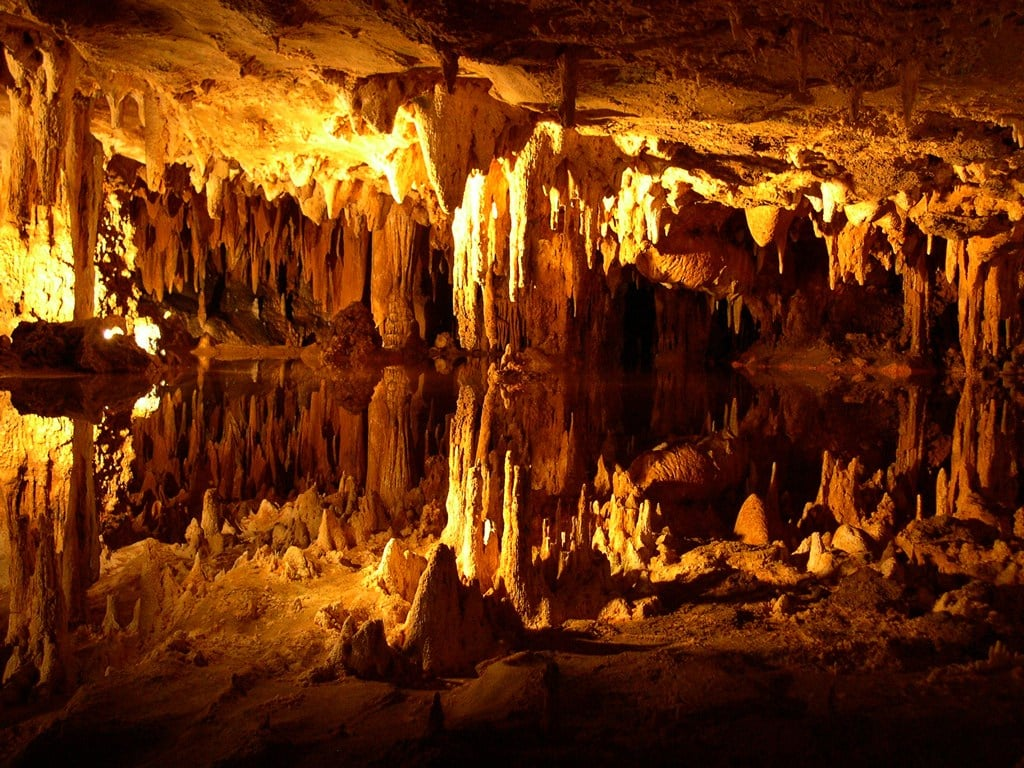
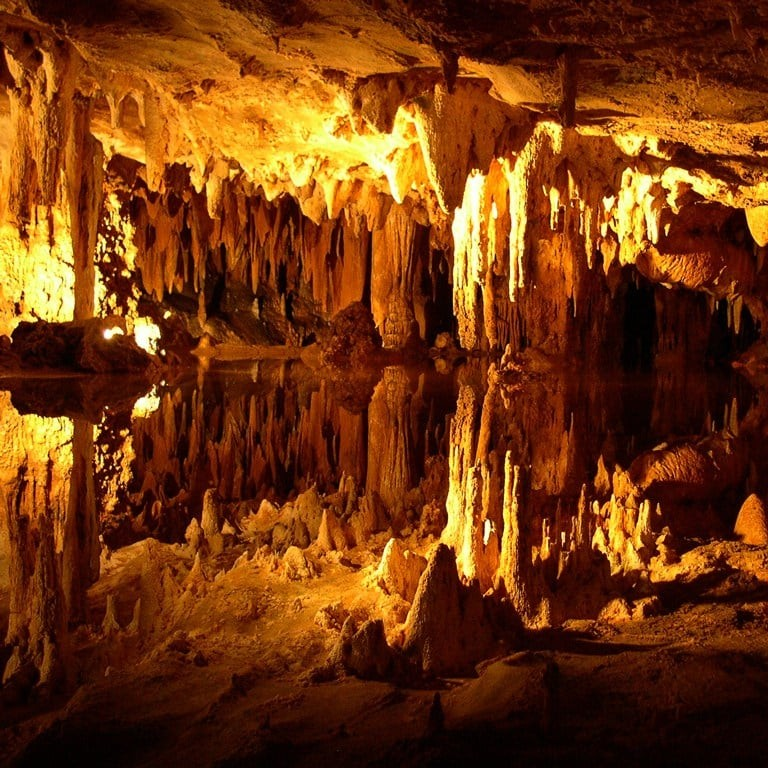
Embedded Google maps
Updated img sizing
added responsiveness for mobile devices

diff --git a/index.html b/index.html
@@ -58,8 +58,12 @@
 
         <div class="grid places-grid-3-columns">
           <div class="card">
-            <div class="card-header">
+            <div class="card-header grid grid-2-columns">
               <img src="/images/sonora_desert_museum.JPEG" alt="big aloe plant" class="img-responsive" />
+              <iframe
+                src="https://www.google.com/maps/embed?pb=!1m18!1m12!1m3!1d3374.5720966264835!2d-111.17013702435922!3d32.24268627389146!2m3!1f0!2f0!3f0!3m2!1i1024!2i768!4f13.1!3m3!1m2!1s0x86d5dec78c7543c5%3A0x11caa587c49ed11f!2sArizona-Sonora%20Desert%20Museum!5e0!3m2!1sen!2sus!4v1753901583274!5m2!1sen!2sus"
+                class="embed" style="border:0;" allowfullscreen="" loading="lazy"
+                referrerpolicy="no-referrer-when-downgrade"></iframe>
             </div>
             <div class="card-body">
               <h4>Arizona-Sonora Desert Museum</h4>
@@ -81,8 +85,12 @@
             </div>
           </div>
           <div class="card">
-            <div class="card-header">
+            <div class="card-header grid grid-2-columns">
               <img src="images/Kartchner_caverns.jpg" alt="Kartchner cavern cave" class="img-responsive" />
+              <iframe
+                src="https://www.google.com/maps/embed?pb=!1m18!1m12!1m3!1d3389.573697854464!2d-110.35375571286704!3d31.836600464607045!2m3!1f0!2f0!3f0!3m2!1i1024!2i768!4f13.1!3m3!1m2!1s0x86d6e1edc76c967d%3A0xfd43ee1849cef6e0!2sKartchner%20Caverns%20State%20Park!5e0!3m2!1sen!2sus!4v1753902050992!5m2!1sen!2sus"
+                class="embed" style="border:0;" allowfullscreen="" loading="lazy"
+                referrerpolicy="no-referrer-when-downgrade"></iframe>
             </div>
             <div class="card-body">
               <h4>Kartchner Caverns</h4>
@@ -105,8 +113,12 @@
             </div>
           </div>
           <div class="card">
-            <div class="card-header">
+            <div class="card-header grid grid-2-columns">
               <img src="images/jewel_of_the_creek.jpg" alt="Jewel of the Creek" class="img-responsive" />
+              <iframe
+                src="https://www.google.com/maps/embed?pb=!1m18!1m12!1m3!1d3312.220063753772!2d-111.9575715238281!3d33.88398582659514!2m3!1f0!2f0!3f0!3m2!1i1024!2i768!4f13.1!3m3!1m2!1s0x872b7dfdac432d7b%3A0x973e0e858df25534!2sJewel%20of%20the%20Creek%20Preserve!5e0!3m2!1sen!2sus!4v1753902127281!5m2!1sen!2sus"
+                class="embed" style="border:0;" allowfullscreen="" loading="lazy"
+                referrerpolicy="no-referrer-when-downgrade"></iframe>
             </div>
             <div class="card-body">
               <h4>Jewel of the Creek Preserve</h4>

diff --git a/src/style.css b/src/style.css
@@ -155,6 +155,15 @@ section.secondary {
   margin: 30px 0;
 }
 
+.card-header.grid {
+  grid-gap: 0;
+}
+
+.embed {
+  width: 100%;
+  aspect-ratio: 1 / 1;
+}
+
 .card-body {
   padding: 32px;
 }
@@ -247,5 +256,13 @@ footer a {
 
   section {
     padding: 30px;
+  }
+
+  .card-header img {
+    display: none;
+  }
+
+  .embed {
+    aspect-ratio: 16 / 9;
   }
 }
